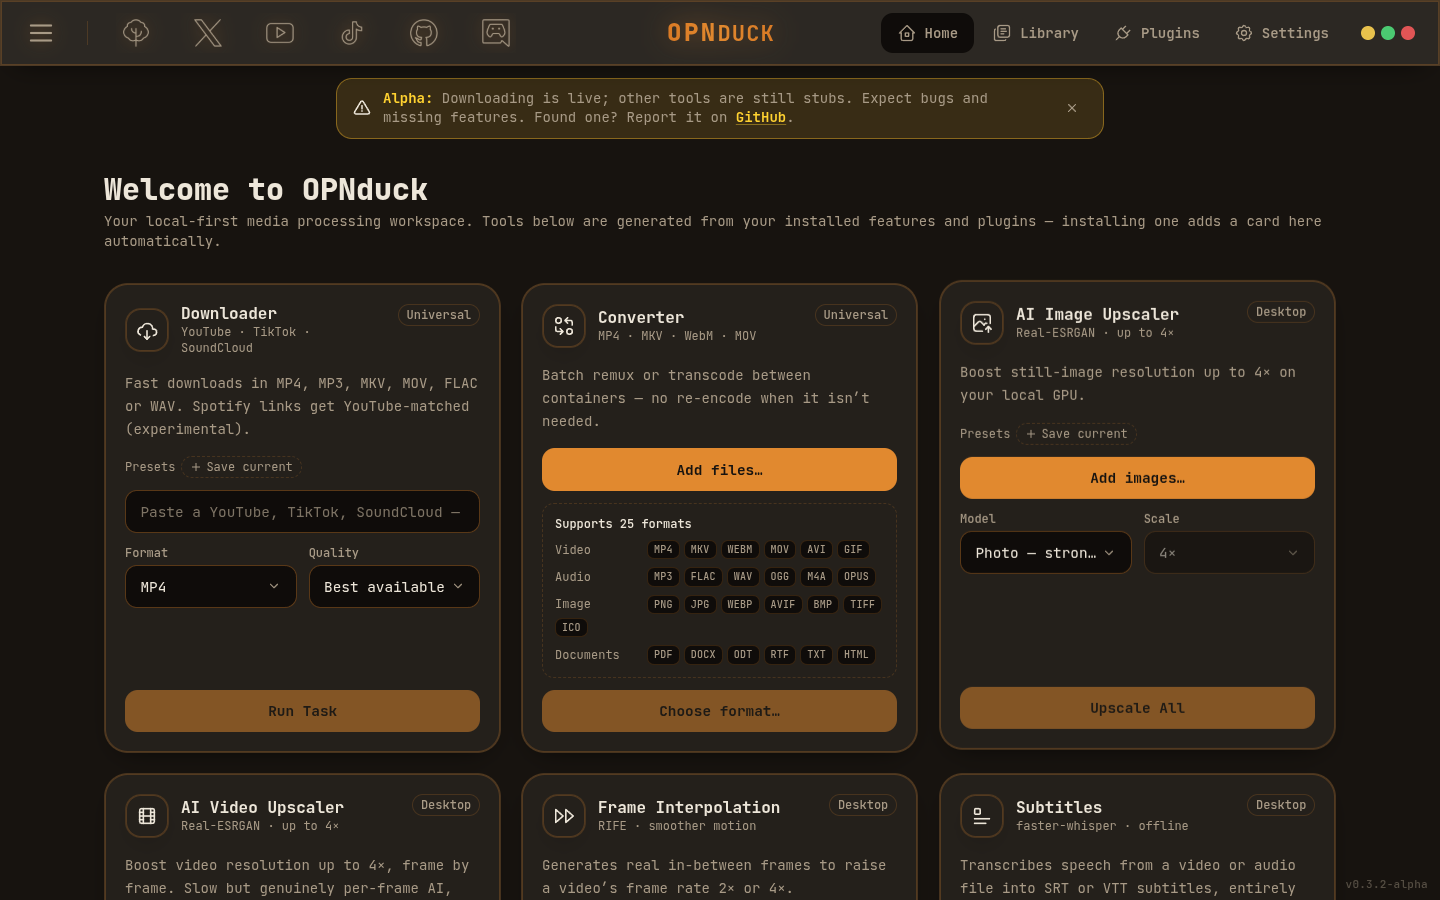
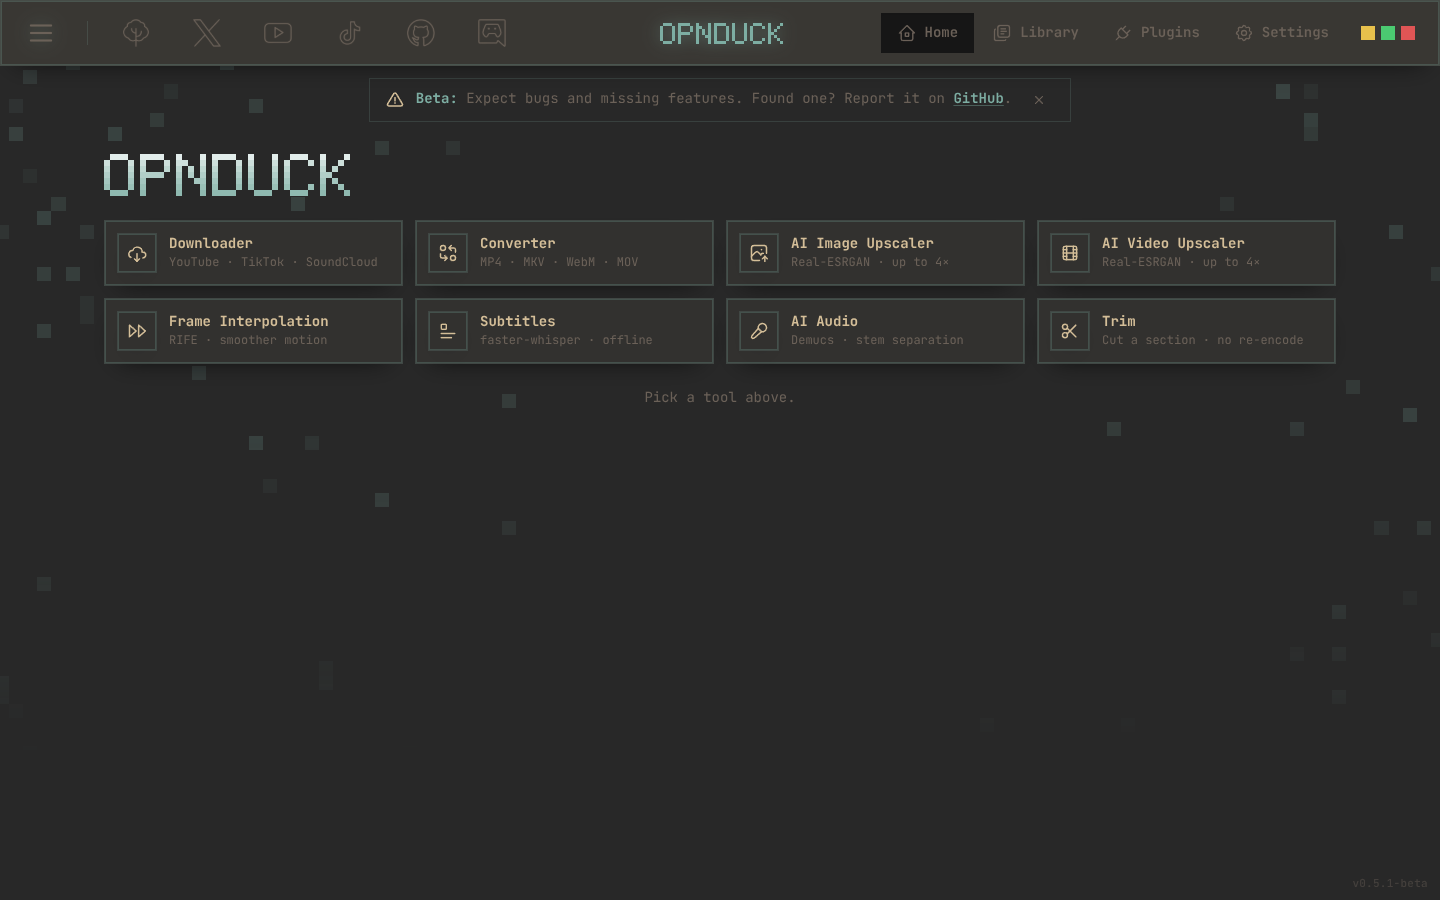
Pixel look: pixel wordmark in the nav and on Home, pixel scatter behind pages; screenshots in docs/screenshots

diff --git a/src/lib/pixels.ts b/src/lib/pixels.ts
@@ -1,0 +1,65 @@
+/*
+ * OPNduck — local-first media processing suite.
+ * Copyright (C) 2026 Aaron Jonsson
+ *
+ * This program is free software: you can redistribute it and/or modify
+ * it under the terms of the GNU General Public License as published by
+ * the Free Software Foundation, either version 3 of the License, or
+ * (at your option) any later version.
+ *
+ * This program is distributed in the hope that it will be useful,
+ * but WITHOUT ANY WARRANTY; without even the implied warranty of
+ * MERCHANTABILITY or FITNESS FOR A PARTICULAR PURPOSE. See the
+ * GNU General Public License for more details.
+ *
+ * You should have received a copy of the GNU General Public License
+ * along with this program. If not, see <https://www.gnu.org/licenses/>.
+ */
+
+/** 5×7 bitmap letters for the pixel wordmark. */
+const GLYPHS: Record<string, string[]> = {
+  O: ['01110', '10001', '10001', '10001', '10001', '10001', '01110'],
+  P: ['11110', '10001', '10001', '11110', '10000', '10000', '10000'],
+  N: ['10001', '11001', '10101', '10101', '10011', '10001', '10001'],
+  D: ['11110', '10001', '10001', '10001', '10001', '10001', '11110'],
+  U: ['10001', '10001', '10001', '10001', '10001', '10001', '01110'],
+  C: ['01110', '10001', '10000', '10000', '10000', '10001', '01110'],
+  K: ['10001', '10010', '10100', '11000', '10100', '10010', '10001'],
+}
+
+export interface PixelCell {
+  x: number
+  y: number
+  row: number
+}
+
+/** The filled cells of `text` (letters one cell apart) and the grid size they span. */
+export function pixelText(text: string): { cells: PixelCell[]; cols: number; rows: number } {
+  const cells: PixelCell[] = []
+  let x = 0
+  for (const ch of text.toUpperCase()) {
+    GLYPHS[ch]?.forEach((line, row) => {
+      for (let col = 0; col < 5; col++) if (line[col] === '1') cells.push({ x: x + col, y: row, row })
+    })
+    x += 6
+  }
+  return { cells, cols: Math.max(x - 1, 1), rows: 7 }
+}
+
+/** A repeatable scatter of squares, thicker toward the left and right edges. */
+export function pixelScatter(cols: number, rows: number): { x: number; y: number; opacity: number }[] {
+  let seed = 7
+  const rnd = () => {
+    seed = (seed * 16807) % 2147483647
+    return seed / 2147483647
+  }
+  const out: { x: number; y: number; opacity: number }[] = []
+  for (let i = 0; i < cols * rows * 0.045; i++) {
+    const x = Math.floor(rnd() * cols)
+    const y = Math.floor(rnd() * rows)
+    const edge = Math.abs(x - cols / 2) / (cols / 2)
+    if (rnd() > 0.02 + edge * edge * 0.85) continue
+    out.push({ x, y, opacity: 0.06 + rnd() * 0.16 })
+  }
+  return out
+}

diff --git a/src/components/PixelLogo.tsx b/src/components/PixelLogo.tsx
@@ -1,0 +1,51 @@
+/*
+ * OPNduck — local-first media processing suite.
+ * Copyright (C) 2026 Aaron Jonsson
+ *
+ * This program is free software: you can redistribute it and/or modify
+ * it under the terms of the GNU General Public License as published by
+ * the Free Software Foundation, either version 3 of the License, or
+ * (at your option) any later version.
+ *
+ * This program is distributed in the hope that it will be useful,
+ * but WITHOUT ANY WARRANTY; without even the implied warranty of
+ * MERCHANTABILITY or FITNESS FOR A PARTICULAR PURPOSE. See the
+ * GNU General Public License for more details.
+ *
+ * You should have received a copy of the GNU General Public License
+ * along with this program. If not, see <https://www.gnu.org/licenses/>.
+ */
+
+import { pixelText } from '../lib/pixels'
+
+const BANDS = [78, 62, 50, 40, 30, 22, 14] // % white mixed into the accent, top row to bottom row
+
+/**
+ * The OPNduck wordmark in blocky pixel letters. `banded` shades the rows from light to dark in
+ * the accent colour; otherwise it is one flat accent colour.
+ */
+export default function PixelLogo({ cell = 3, banded = false, className = '' }: { cell?: number; banded?: boolean; className?: string }) {
+  const { cells, cols, rows } = pixelText('OPNDUCK')
+  return (
+    <svg
+      role="img"
+      aria-label="OPNduck"
+      viewBox={`0 0 ${cols} ${rows}`}
+      width={cols * cell}
+      height={rows * cell}
+      shapeRendering="crispEdges"
+      className={className}
+    >
+      {cells.map((c) => (
+        <rect
+          key={`${c.x}-${c.y}`}
+          x={c.x}
+          y={c.y}
+          width="1"
+          height="1"
+          fill={banded ? `color-mix(in srgb, white ${BANDS[c.row]}%, var(--accent))` : 'var(--accent)'}
+        />
+      ))}
+    </svg>
+  )
+}

diff --git a/src/components/PixelField.tsx b/src/components/PixelField.tsx
@@ -1,0 +1,41 @@
+/*
+ * OPNduck — local-first media processing suite.
+ * Copyright (C) 2026 Aaron Jonsson
+ *
+ * This program is free software: you can redistribute it and/or modify
+ * it under the terms of the GNU General Public License as published by
+ * the Free Software Foundation, either version 3 of the License, or
+ * (at your option) any later version.
+ *
+ * This program is distributed in the hope that it will be useful,
+ * but WITHOUT ANY WARRANTY; without even the implied warranty of
+ * MERCHANTABILITY or FITNESS FOR A PARTICULAR PURPOSE. See the
+ * GNU General Public License for more details.
+ *
+ * You should have received a copy of the GNU General Public License
+ * along with this program. If not, see <https://www.gnu.org/licenses/>.
+ */
+
+import { useMemo } from 'react'
+import { pixelScatter } from '../lib/pixels'
+
+const COLS = 107
+const ROWS = 54
+
+/** A faint scatter of accent-coloured squares along the top of every page. */
+export default function PixelField() {
+  const dots = useMemo(() => pixelScatter(COLS, ROWS), [])
+  return (
+    <svg
+      aria-hidden="true"
+      className="pixel-field"
+      viewBox={`0 0 ${COLS} ${ROWS}`}
+      preserveAspectRatio="xMidYMin slice"
+      shapeRendering="crispEdges"
+    >
+      {dots.map((d) => (
+        <rect key={`${d.x}-${d.y}`} x={d.x} y={d.y} width="1" height="1" opacity={d.opacity} />
+      ))}
+    </svg>
+  )
+}

diff --git a/src/components/NavBar.tsx b/src/components/NavBar.tsx
@@ -4,6 +4,7 @@ import NavMenuCards from './NavMenuCards'
 import SocialLinks from './SocialLinks'
 import WindowControls from './WindowControls'
 import { useNavDisplay } from '../lib/navContext'
+import PixelLogo from './PixelLogo'
 import { unlockArcade } from '../lib/arcadeStore'
 
 /**
@@ -59,10 +60,10 @@ export default function NavBar() {
         <div
           role="presentation"
           onClick={openArcade}
-          className="titlebar-no-drag cursor-default select-none whitespace-nowrap px-2 text-center font-mono text-xl font-extrabold tracking-[0.12em] text-[var(--accent)]"
-          style={{ textShadow: '0 0 14px color-mix(in srgb, var(--accent) 45%, transparent)' }}
+          className="titlebar-no-drag cursor-default select-none whitespace-nowrap px-2 flex items-center"
+          style={{ filter: 'drop-shadow(0 0 8px color-mix(in srgb, var(--accent) 45%, transparent))' }}
         >
-          OPNduck
+          <PixelLogo cell={3} />
         </div>
 
         {/* Right: the menu cards, then OS window controls when in the shell */}

diff --git a/src/pages/Home.tsx b/src/pages/Home.tsx
@@ -17,12 +17,15 @@
  */
 
 
+import PixelLogo from '../components/PixelLogo'
 import AdaptiveCardGrid from '../components/AdaptiveCardGrid'
 
 export default function Home() {
   return (
     <div className="mx-auto max-w-7xl px-4 py-8 sm:px-6">
-      <h1 className="mb-6 text-2xl font-extrabold sm:text-3xl">Tools</h1>
+      <h1 className="mb-6" aria-label="OPNduck">
+        <PixelLogo cell={6} banded />
+      </h1>
 
       <AdaptiveCardGrid />
     </div>

diff --git a/src/index.css b/src/index.css
@@ -522,3 +522,17 @@ body {
   outline: 1px solid rgba(255, 70, 70, 0.4);
   outline-offset: -1px;
 }
+
+/* Pixel scatter behind every page (see PixelField). */
+.pixel-field {
+  position: fixed;
+  top: 0;
+  left: 0;
+  width: 100%;
+  height: min(760px, 100vh);
+  z-index: 0;
+  pointer-events: none;
+  fill: var(--accent);
+  -webkit-mask-image: linear-gradient(#000 55%, transparent);
+  mask-image: linear-gradient(#000 55%, transparent);
+}

diff --git a/src/components/FluidBackground.tsx b/src/components/FluidBackground.tsx
@@ -17,7 +17,14 @@
  */
 
 
+import PixelField from './PixelField'
+
 /** The single fixed background layer (styled by `.fluid-background` in index.css). */
 export default function FluidBackground() {
-  return <div className="fluid-background" aria-hidden="true" />
+  return (
+    <>
+      <div className="fluid-background" aria-hidden="true" />
+      <PixelField />
+    </>
+  )
 }

diff --git a/CHANGELOG.md b/CHANGELOG.md
@@ -7,6 +7,7 @@ history; entries are curated for readability.
 ## [Unreleased]
 
 ### Changed
+- Pixel look: a blocky pixel wordmark in the top bar and on Home, and a faint scatter of pixels along the top of every page, both in the current theme's accent.
 - Sharper corners: the radius scale is now 1-4 px in Blarange and Monochrome (Omarchy themes were already square).
 - Calmer Blarange colours: neutral warm-black surfaces and borders instead of orange-tinted ones, orange kept for actions, focus and the active item, and a flat wordmark instead of the gradient with a glow. The Beta notice now follows the theme.
 - Plainer wording and less filler across the app: Home is a short "Tools" page, tool cards no longer carry a Desktop/Universal badge, shorter Settings and theme text, a clearer Download button, and the Settings category panel no longer overlaps the page.
@@ -88,6 +89,7 @@ is still **postponed** (WebKitGTK on Linux stutters/crashes with NVIDIA + Waylan
   filter is retried off), and a file with no speech reports that instead of saving an empty .srt.
 
 ### Changed
+- Pixel look: a blocky pixel wordmark in the top bar and on Home, and a faint scatter of pixels along the top of every page, both in the current theme's accent.
 - Sharper corners: the radius scale is now 1-4 px in Blarange and Monochrome (Omarchy themes were already square).
 - Calmer Blarange colours: neutral warm-black surfaces and borders instead of orange-tinted ones, orange kept for actions, focus and the active item, and a flat wordmark instead of the gradient with a glow. The Beta notice now follows the theme.
 - Plainer wording and less filler across the app: Home is a short "Tools" page, tool cards no longer carry a Desktop/Universal badge, shorter Settings and theme text, a clearer Download button, and the Settings category panel no longer overlaps the page.
@@ -194,6 +196,7 @@ NVIDIA + Wayland); OPNduck stays on Electron.
   shows the install command when it's missing.
 
 ### Changed
+- Pixel look: a blocky pixel wordmark in the top bar and on Home, and a faint scatter of pixels along the top of every page, both in the current theme's accent.
 - Sharper corners: the radius scale is now 1-4 px in Blarange and Monochrome (Omarchy themes were already square).
 - Calmer Blarange colours: neutral warm-black surfaces and borders instead of orange-tinted ones, orange kept for actions, focus and the active item, and a flat wordmark instead of the gradient with a glow. The Beta notice now follows the theme.
 - Plainer wording and less filler across the app: Home is a short "Tools" page, tool cards no longer carry a Desktop/Universal badge, shorter Settings and theme text, a clearer Download button, and the Settings category panel no longer overlaps the page.
@@ -297,6 +300,7 @@ Hotfix. **Everyone on v0.3.0-Alpha should upgrade.**
 - A Content-Security-Policy was added to the renderer.
 
 ### Changed
+- Pixel look: a blocky pixel wordmark in the top bar and on Home, and a faint scatter of pixels along the top of every page, both in the current theme's accent.
 - Sharper corners: the radius scale is now 1-4 px in Blarange and Monochrome (Omarchy themes were already square).
 - Calmer Blarange colours: neutral warm-black surfaces and borders instead of orange-tinted ones, orange kept for actions, focus and the active item, and a flat wordmark instead of the gradient with a glow. The Beta notice now follows the theme.
 - Plainer wording and less filler across the app: Home is a short "Tools" page, tool cards no longer carry a Desktop/Universal badge, shorter Settings and theme text, a clearer Download button, and the Settings category panel no longer overlaps the page.
@@ -351,6 +355,7 @@ may be revisited for Windows (WebView2) or non-NVIDIA Linux.
 - Real SVG icons instead of emoji/text glyphs.
 
 ### Changed
+- Pixel look: a blocky pixel wordmark in the top bar and on Home, and a faint scatter of pixels along the top of every page, both in the current theme's accent.
 - Sharper corners: the radius scale is now 1-4 px in Blarange and Monochrome (Omarchy themes were already square).
 - Calmer Blarange colours: neutral warm-black surfaces and borders instead of orange-tinted ones, orange kept for actions, focus and the active item, and a flat wordmark instead of the gradient with a glow. The Beta notice now follows the theme.
 - Plainer wording and less filler across the app: Home is a short "Tools" page, tool cards no longer carry a Desktop/Universal badge, shorter Settings and theme text, a clearer Download button, and the Settings category panel no longer overlaps the page.
@@ -469,6 +474,7 @@ card dashboard. Download/convert/AI engines are not wired in yet (Alpha
 phase).
 
 ### Changed
+- Pixel look: a blocky pixel wordmark in the top bar and on Home, and a faint scatter of pixels along the top of every page, both in the current theme's accent.
 - Sharper corners: the radius scale is now 1-4 px in Blarange and Monochrome (Omarchy themes were already square).
 - Calmer Blarange colours: neutral warm-black surfaces and borders instead of orange-tinted ones, orange kept for actions, focus and the active item, and a flat wordmark instead of the gradient with a glow. The Beta notice now follows the theme.
 - Plainer wording and less filler across the app: Home is a short "Tools" page, tool cards no longer carry a Desktop/Universal badge, shorter Settings and theme text, a clearer Download button, and the Settings category panel no longer overlaps the page.
